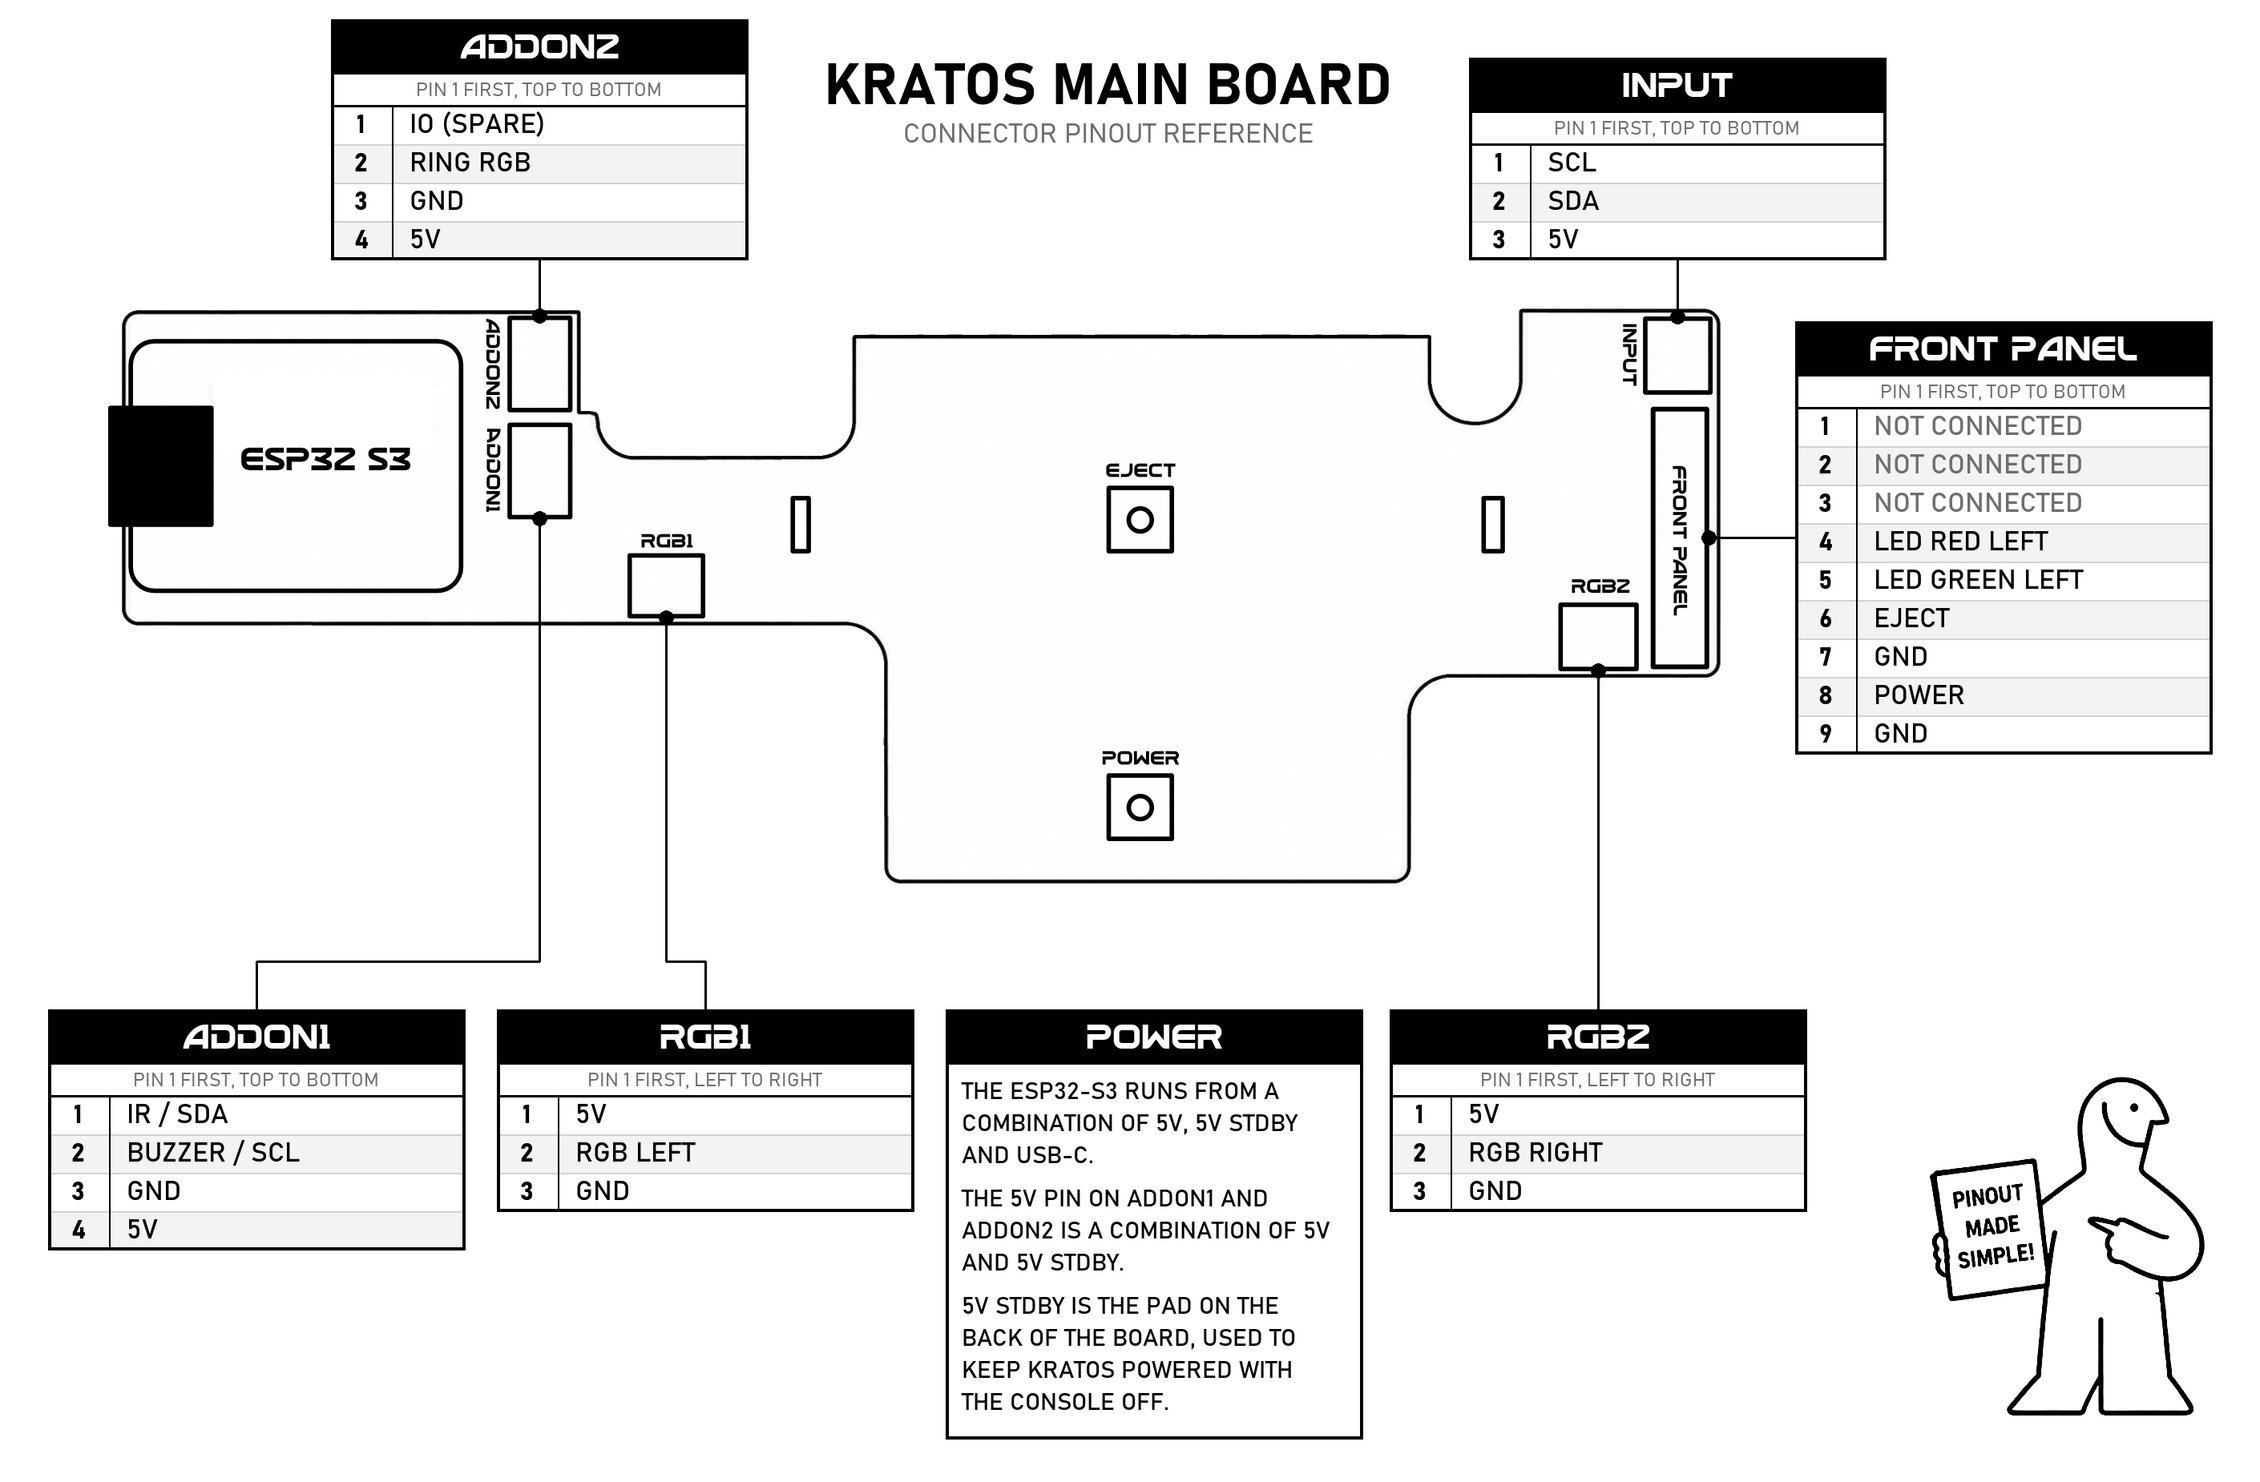
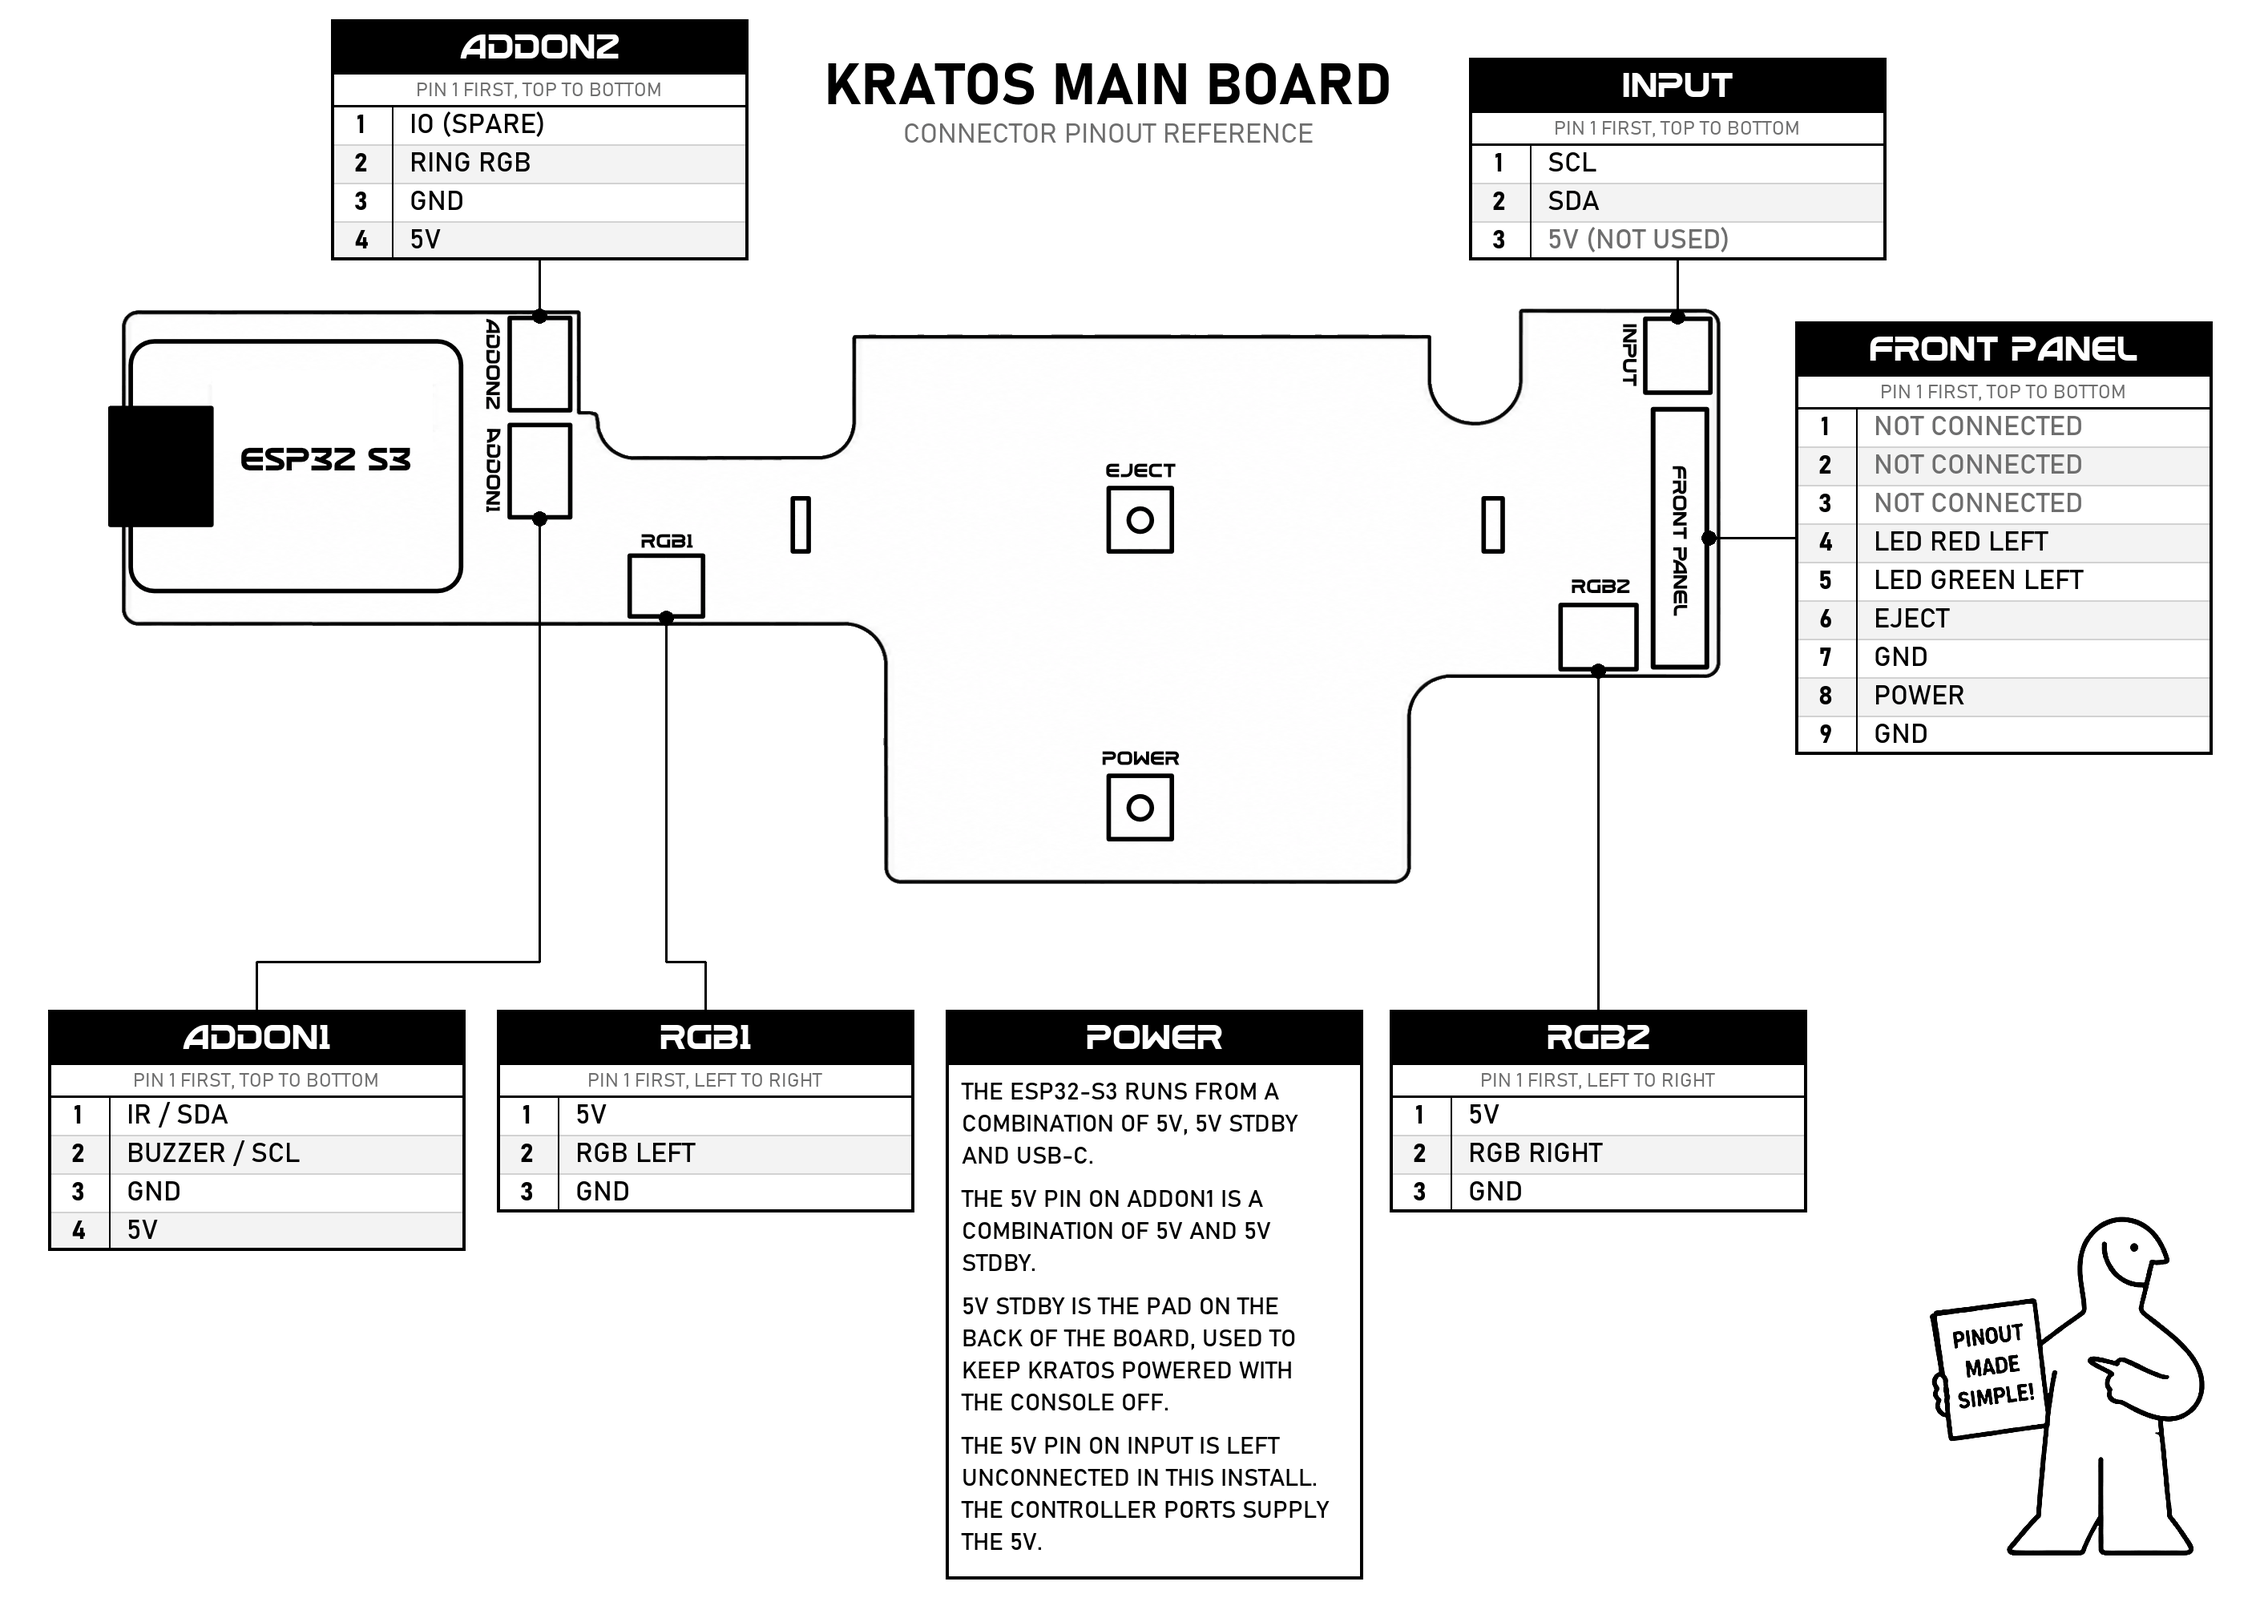
update

diff --git a/tools/generate-pinout.py b/tools/generate-pinout.py
@@ -73,7 +73,7 @@ MAIN_BOARD = {
         "ADDON1": ("TOP TO BOTTOM", ["IR / SDA", "BUZZER / SCL", "GND", "5V"]),
         "RGB1": ("LEFT TO RIGHT", ["5V", "RGB LEFT", "GND"]),
         "RGB2": ("LEFT TO RIGHT", ["5V", "RGB RIGHT", "GND"]),
-        "INPUT": ("TOP TO BOTTOM", ["SCL", "SDA", "5V"]),
+        "INPUT": ("TOP TO BOTTOM", ["SCL", "SDA", "5V (NOT USED)"]),
         "FRONT PANEL": (
             "TOP TO BOTTOM",
             [
@@ -105,8 +105,9 @@ MAIN_BOARD = {
             "POWER",
             [
                 "THE ESP32-S3 RUNS FROM A COMBINATION OF 5V, 5V STDBY AND USB-C.",
-                "THE 5V PIN ON ADDON1 AND ADDON2 IS A COMBINATION OF 5V AND 5V STDBY.",
+                "THE 5V PIN ON ADDON1 IS A COMBINATION OF 5V AND 5V STDBY.",
                 "5V STDBY IS THE PAD ON THE BACK OF THE BOARD, USED TO KEEP KRATOS POWERED WITH THE CONSOLE OFF.",
+                "THE 5V PIN ON INPUT IS LEFT UNCONNECTED IN THIS INSTALL. THE CONTROLLER PORTS SUPPLY THE 5V.",
             ],
             (1180, 1260),
         )
@@ -246,6 +247,11 @@ def draw_text_centred(draw, centre, text, font, fill):
     )
 
 
+def is_unused(pin):
+    """Pins with nothing on them are greyed so the live ones stand out."""
+    return pin == "NOT CONNECTED" or pin.endswith("(NOT USED)")
+
+
 def box_height(pin_count):
     return HEADER_H + SUBTITLE_H + pin_count * ROW_H
 
@@ -346,7 +352,7 @@ def draw_callout(draw, board, name, fonts):
             (divider_x + 22, y + ROW_H // 2),
             pin,
             font=fonts["pin"],
-            fill=GREY if pin == "NOT CONNECTED" else BLACK,
+            fill=GREY if is_unused(pin) else BLACK,
             anchor="lm",
         )
 

diff --git a/hardware-5-preparing-the-kratos-main-board.md b/hardware-5-preparing-the-kratos-main-board.md
@@ -2,7 +2,7 @@
 
 The Kratos Main Board uses the same 9-pin connector as the original front panel board, so the connector has to be transferred across before the board can go in. It is soldered in place and its wires sit in slot contacts, so this step needs patience rather than force.
 
-**You will need:** a soldering iron, solder, desoldering braid or a solder sucker, flux, and isopropyl alcohol with a soft brush for cleaning up afterwards.
+**You will need:** a soldering iron, solder, desoldering braid or a solder sucker, flux, isopropyl alcohol with a soft brush for cleaning up afterwards, and a fine pick or side cutters for the harness in Step 5.
 
 **Use plenty of flux.** Fresh flux makes the old solder flow at a lower temperature and for longer, so you spend less time heating the pads and are far less likely to lift one. It is worth using on both the desoldering and the soldering.
 
@@ -46,11 +46,19 @@ With the connector fitted and cleaned up, the Kratos Main Board should look like
 
 [![Another view of the assembled Kratos Main Board](images/mainboard/step4b.jpg)](images/mainboard/step4b.jpg)
 
-## Step 5: Connect the Controller Cables and Clip the Board In
+## Step 5: Prepare the SMBus Harness
+
+The SMBus harness is the single-ended 3-wire JST lead - a connector on one end, bare wires on the other. It plugs into the header marked **INPUT**, and its two SMBus wires are soldered to the console's SMBus later in [Part 7](hardware-7-connecting-kratos-to-the-smbus.md).
+
+**Remove the 5V wire from the harness before you plug it in.** In this install Kratos is powered from the controller ports, wired up in [Part 4](hardware-4-preparing-the-controller-ports.md), so nothing should be connected to the 5V pin on **INPUT**. Leaving the wire on the harness leaves a bare end loose inside the console next to the SMBus joints, which is not worth the risk.
+
+The **INPUT** header is SCL, SDA, then 5V, so the 5V wire is the one on the end - check it against the [Pinout Reference](reference-pinout.md) before you touch anything. To take it out, lift the small retention tab inside the connector housing with a fine pick and slide the contact out. If you would rather not disturb the housing, cut the wire off flush at the connector and insulate the stub instead.
+
+## Step 6: Connect the Cables and Clip the Board In
 
 The two Controller Board Connection Cables are the 3-wire JST leads. Plug one into the header marked **RGB1** and the other into **RGB2** - the connectors are keyed, so they only go in one way. Route each cable towards the controller port it will feed.
 
-With the cables on, clip the Kratos Main Board into the front panel using the same clips that held the original board.
+Plug the SMBus harness into **INPUT**, then clip the Kratos Main Board into the front panel using the same clips that held the original board.
 
 [![The Kratos Main Board clipped into the front panel with the RGB cables connected](images/mainboard/step5.jpg)](images/mainboard/step5.jpg)
 

diff --git a/reference-pinout.md b/reference-pinout.md
@@ -11,7 +11,7 @@ Left and right are as you face the front of the console, the same convention use
 ### Connectors
 
 - **FRONT PANEL** - The 9-pin header for the console's front panel cable. The connector is salvaged from the original front panel board and soldered on in [Part 5](hardware-5-preparing-the-kratos-main-board.md).
-- **INPUT** - The 3-pin header carrying the SMBus lines and 5V. Its harness is wired to the console's SMBus in [Part 7](hardware-7-connecting-kratos-to-the-smbus.md).
+- **INPUT** - The 3-pin header carrying the SMBus lines and 5V. Only the two SMBus lines are used in this guide - they are wired to the console's SMBus in [Part 7](hardware-7-connecting-kratos-to-the-smbus.md). The 5V pin is left unconnected - the controller ports are what supply Kratos with 5V, so the harness has its 5V wire removed in [Part 5](hardware-5-preparing-the-kratos-main-board.md).
 - **RGB1** and **RGB2** - The two 3-pin JST headers for the Controller Board Connection Cables, one per Kratos Controller Board. The connectors are keyed, so they only go in one way. Fitting these is covered in [Part 5](hardware-5-preparing-the-kratos-main-board.md).
 - **ADDON1** and **ADDON2** - Expansion headers. Nothing in the standard kit plugs into these.
 
@@ -25,7 +25,8 @@ Left and right are as you face the front of the console, the same convention use
 The 5V pins in the diagram are not all fed from the same place:
 
 - The ESP32-S3 runs from a combination of **5V**, **5V STDBY** and USB-C.
-- The 5V pin on **ADDON1** and **ADDON2** is a combination of **5V** and **5V STDBY**.
+- The 5V pin on **ADDON1** is a combination of **5V** and **5V STDBY**.
+- The 5V pin on **INPUT** is not connected in this install, and the wire for it is removed from the harness in [Part 5](hardware-5-preparing-the-kratos-main-board.md). Kratos takes its 5V from the controller ports, soldered to the **5V ALT** pad on the right Controller Board in [Part 4](hardware-4-preparing-the-controller-ports.md).
 
 **5V STDBY** is the pad on the back of the board. Feeding it from an always-on source is what keeps Kratos powered while the console is off - required on a 1.6 console ([Part 6b](hardware-6b-refitting-the-front-panel-1-6.md)) and optional on 1.0 to 1.5 ([Part 6a](hardware-6a-refitting-the-front-panel-1-0-1-5.md)).
 

diff --git a/hardware-installation.md b/hardware-installation.md
@@ -26,7 +26,7 @@ The hardware installation is split into the following parts. Work through them i
 2. **[Part 2: Opening Your Xbox](hardware-2-opening-your-xbox.md)** - Open the console and remove the drives to access the front panel
 3. **[Part 3: Removing the Original Front Panel](hardware-3-removing-the-original-front-panel.md)** - Remove the front bezel to reach the stock front button panel board
 4. **[Part 4: Preparing the Controller Ports](hardware-4-preparing-the-controller-ports.md)** - Remove the original controller ports and their shielding, then fit the Kratos Controller Boards
-5. **[Part 5: Preparing the Kratos Main Board](hardware-5-preparing-the-kratos-main-board.md)** - Transfer the 9-pin connector from the original board to the Kratos Main Board
+5. **[Part 5: Preparing the Kratos Main Board](hardware-5-preparing-the-kratos-main-board.md)** - Transfer the 9-pin connector from the original board to the Kratos Main Board, then fit the cables
 6. **[Part 6: Refitting the Front Panel](hardware-6-refitting-the-front-panel.md)** - Route the cables and clip the front panel back onto the console
    - **[Part 6a: Xbox 1.0 to 1.5](hardware-6a-refitting-the-front-panel-1-0-1-5.md)** - Route the cable and clip the panel on, plus optional standby power for wireless power-on
    - **[Part 6b: Xbox 1.6](hardware-6b-refitting-the-front-panel-1-6.md)** - 5V standby wiring for 1.6 consoles

diff --git a/hardware-7-connecting-kratos-to-the-smbus.md b/hardware-7-connecting-kratos-to-the-smbus.md
@@ -1,6 +1,6 @@
 # Part 7: Connecting Kratos to the SMBus
 
-Kratos talks to the console over the SMBus. The wire coming from the Kratos **INPUT** harness carries the two SMBus lines: connect its SDA wire to the console's SMBus SDA, and its SCL wire to the console's SMBus SCL.
+Kratos talks to the console over the SMBus. The wire coming from the Kratos **INPUT** harness carries the two SMBus lines: connect its SDA wire to the console's SMBus SDA, and its SCL wire to the console's SMBus SCL. Those are the only two wires it should have on it - its 5V wire was removed back in [Part 5](hardware-5-preparing-the-kratos-main-board.md), as Kratos is powered from the controller ports instead.
 
 There are two places to pick the SMBus up. Either works, so use whichever is easier to reach in your console.
 
